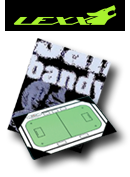
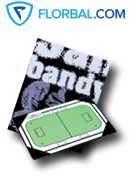
Sponsored by Florbal.com
As I have received no payment for advertisement of LEXX, we made a deal
about sponsorship with Florbal.com again.

January 1, 2015

Changed region(s): [[0.0308, 0.0, 0.9846, 0.1977]]

diff --git a/src/gui/ExerciseDrawerView.java b/src/gui/ExerciseDrawerView.java
@@ -1601,7 +1601,7 @@ public class ExerciseDrawerView extends FrameView {
             if (desktop.isSupported(java.awt.Desktop.Action.BROWSE)) {
                 java.net.URI uri;
                 try {
-                    uri = new java.net.URI("http://www.lexx.cool/");
+                    uri = new java.net.URI("http://www.florbal.com/");
                     desktop.browse(uri);
                 } catch (URISyntaxException ex) {
                     Logger.getLogger(ExerciseDrawerView.class.getName()).log(Level.SEVERE, null, ex);
